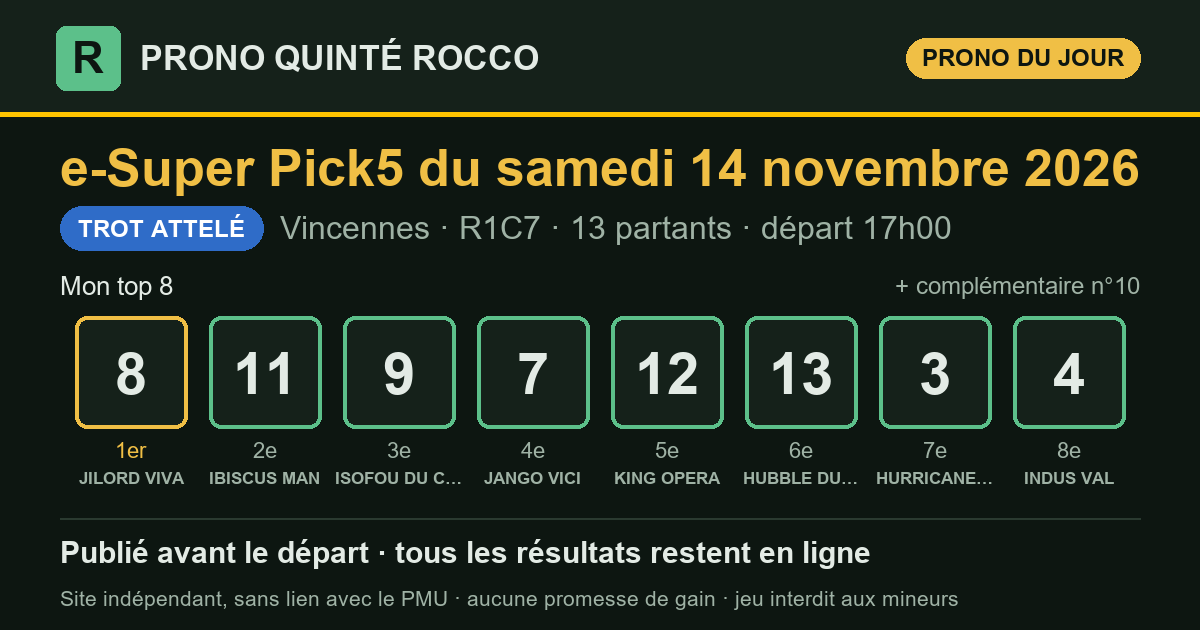
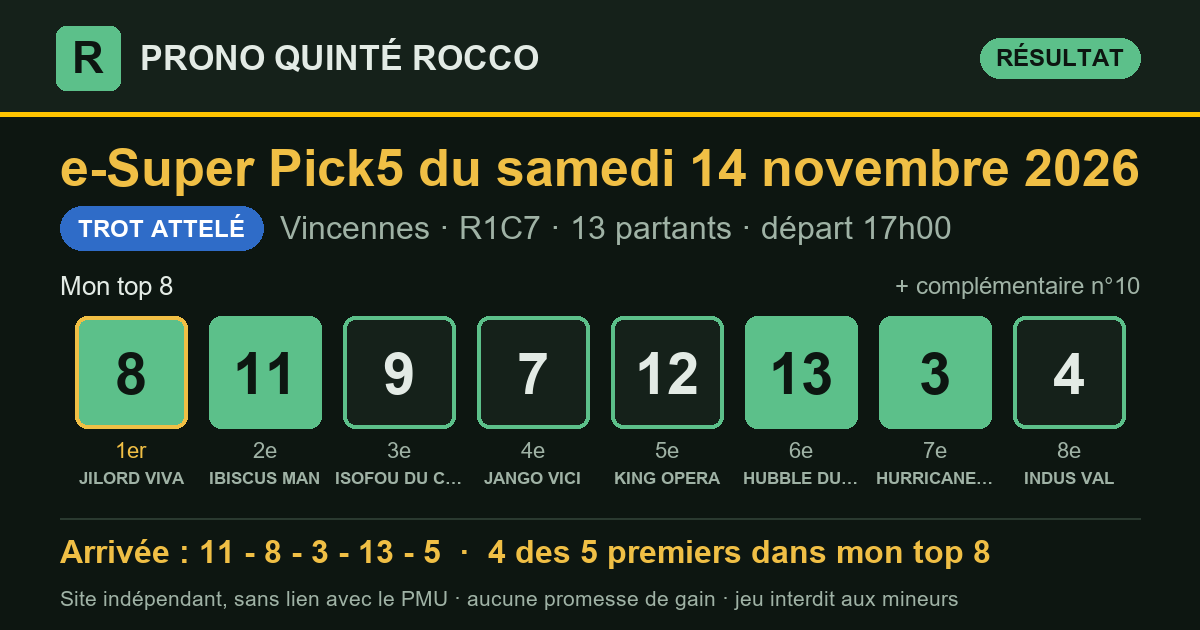
Résultat du e-Super Pick5 2026-11-14 Vincennes R1C7 — publié le 14/11/2026 17:22 (heure de Paris)

diff --git a/superpick5-partants.html b/superpick5-partants.html
@@ -3,7 +3,7 @@
 <head>
 <meta charset="utf-8">
 <meta name="viewport" content="width=device-width, initial-scale=1, viewport-fit=cover">
-<title>Partants du Super Pick 5 du samedi 14 novembre 2026 : Prix du Languedoc — Prono Quinté Rocco</title>
+<title>Partants du Super Pick 5 du dimanche 15 novembre 2026 : Prix Rmc - Prix Count Schomberg — Prono Quinté Rocco</title>
 <meta name="description" content="Les partants du prochain Super Pick 5 (e-Super Pick5 ; programme officiel du PMU), avec le rang de chaque cheval dans mon prono et les liens vers les pronostics de la presse.">
 <link rel="canonical" href="https://prono-quinte-rocco.fr/superpick5-partants.html">
 <link rel="stylesheet" href="style.css?v=16feb868">
@@ -13,7 +13,7 @@
 <meta property="og:site_name" content="Prono Quinté Rocco">
 <meta property="og:locale" content="fr_FR">
 <meta property="og:type" content="website">
-<meta property="og:title" content="Partants du Super Pick 5 du samedi 14 novembre 2026 : Prix du Languedoc — Prono Quinté Rocco">
+<meta property="og:title" content="Partants du Super Pick 5 du dimanche 15 novembre 2026 : Prix Rmc - Prix Count Schomberg — Prono Quinté Rocco">
 <meta property="og:description" content="Les partants du prochain Super Pick 5 (e-Super Pick5 ; programme officiel du PMU), avec le rang de chaque cheval dans mon prono et les liens vers les pronostics de la presse.">
 <meta property="og:url" content="https://prono-quinte-rocco.fr/superpick5-partants.html">
 <meta name="twitter:card" content="summary">
@@ -30,85 +30,100 @@
   <p class="surtitre">Programme officiel du PMU</p>
   <h1>Les partants du prochain <span class="nobr">e-Super Pick5</span></h1>
   <div class="fiche-course">
-    <p class="fiche-date">Samedi 14 novembre 2026</p>
-    <div class="fiche-rc"><span class="pastille" title="Réunion 1">R1</span><span class="pastille" title="Course 7">C7</span><span class="fiche-nom">Prix du Languedoc</span></div>
-    <p class="meta"><span class="type t-attele">Trot attelé</span>Vincennes · 2 850 m · 13 partants</p>
-    <p class="fiche-depart">Départ <b>17:00</b> <span>heure de Paris</span></p>
+    <p class="fiche-date">Dimanche 15 novembre 2026</p>
+    <div class="fiche-rc"><span class="pastille" title="Réunion 1">R1</span><span class="pastille" title="Course 8">C8</span><span class="fiche-nom">Prix Rmc - Prix Count Schomberg</span></div>
+    <p class="meta"><span class="type t-obstacle">Obstacle</span>Auteuil · 4 300 m · 16 partants</p>
+    <p class="fiche-depart">Départ <b>16:35</b> <span>heure de Paris</span></p>
   </div>
   <p class="surtitre">Les pronostics ailleurs sur le web</p>
-  <div class="liens"><a class="lien-ext" href="https://www.turfoo.fr/programmes-courses/261114/reunion1-vincennes/course7-prix-du-languedoc/pronostics-presse/" rel="noopener" target="_blank"><b>Les pronostics de la presse →</b><span>sur Turfoo (site extérieur)</span></a><a class="lien-ext" href="https://www.geny.com/programme/2026-11-14" rel="noopener" target="_blank"><b>Partants et pronostics →</b><span>programme du jour sur Geny (site extérieur)</span></a></div>
+  <div class="liens"><a class="lien-ext" href="https://www.turfoo.fr/programmes-courses/261115/reunion1-auteuil/course8-prix-rmc-prix-count-schomberg/pronostics-presse/" rel="noopener" target="_blank"><b>Les pronostics de la presse →</b><span>sur Turfoo (site extérieur)</span></a><a class="lien-ext" href="https://www.geny.com/programme/2026-11-15" rel="noopener" target="_blank"><b>Partants et pronostics →</b><span>programme du jour sur Geny (site extérieur)</span></a></div>
   <div class="liste-boite"><table class="liste-partants">
     <thead><tr><th>N°</th><th>Cheval</th><th class="cote"><span class="long">Cote du matin</span><span class="court">Cote</span></th>
     <th class="ia"><span class="long">Mon prono</span><span class="court">Prono</span></th></tr></thead>
     <tbody><tr>
   <td><span class="tapis petit">1</span></td>
-  <td><span class="cheval">DIVA DEL RONCO</span><span class="sous">V. CIOTOLA · Vitale CIOTOLA</span></td>
-  <td class="cote num">91,0</td>
+  <td><span class="cheval">LOQUAS</span><span class="sous">K.NABET · Y.FOUIN (S)</span></td>
+  <td class="cote num">—</td>
   <td class="ia">—</td>
 </tr><tr>
   <td><span class="tapis petit">2</span></td>
-  <td><span class="cheval">HANNAH</span><span class="sous">M. GYRE · Julien RAFFESTIN</span></td>
-  <td class="cote num">160,0</td>
+  <td><span class="cheval">GARDONS LE SOURIRE</span><span class="sous">T.CHEVILLARD · GAB.LEENDERS (S)</span></td>
+  <td class="cote num">—</td>
   <td class="ia">—</td>
 </tr><tr>
   <td><span class="tapis petit">3</span></td>
-  <td><span class="cheval">HURRICANE CARTER</span><span class="sous">A. ABRIVARD · Mme S. RAIMOND</span></td>
-  <td class="cote num">36,0</td>
-  <td class="ia"><span class="etat place">7<sup>e</sup></span></td>
+  <td><span class="cheval">JAGUAR DU BERLAIS</span><span class="sous">THO .JOURNIAC · E.GRALL (S)</span></td>
+  <td class="cote num">—</td>
+  <td class="ia">—</td>
 </tr><tr>
   <td><span class="tapis petit">4</span></td>
-  <td><span class="cheval">INDUS VAL</span><span class="sous">CH. MARTENS · J.M. CHAINEUX</span></td>
-  <td class="cote num">24,0</td>
-  <td class="ia"><span class="etat place">8<sup>e</sup></span></td>
+  <td><span class="cheval">CROWN DU BERLAIS</span><span class="sous">L.ZULIANI · LAGENESTE &amp; MACAIRE (S)</span></td>
+  <td class="cote num">—</td>
+  <td class="ia">—</td>
 </tr><tr>
   <td><span class="tapis petit">5</span></td>
-  <td><span class="cheval">INVICTUS MADIBA</span><span class="sous">A. COLLETTE · B. MICHARDIERE</span></td>
-  <td class="cote num">46,0</td>
+  <td><span class="cheval">DO IT AGAIN</span><span class="sous">J.REVELEY · N. GEORGE &amp; A. ZETTERHOLM</span></td>
+  <td class="cote num">—</td>
   <td class="ia">—</td>
 </tr><tr>
   <td><span class="tapis petit">6</span></td>
-  <td><span class="cheval">HORATIUS D&#x27;ELA</span><span class="sous">M. ABRIVARD · M. SASSIER</span></td>
-  <td class="cote num">30,0</td>
+  <td><span class="cheval">MOTY MARC</span><span class="sous">B.LE CLERC · F.BELLEMERE</span></td>
+  <td class="cote num">—</td>
   <td class="ia">—</td>
 </tr><tr>
   <td><span class="tapis petit">7</span></td>
-  <td><span class="cheval">JANGO VICI</span><span class="sous">B. ROCHARD · A. RIPOLL RIGO</span></td>
-  <td class="cote num">9,4</td>
-  <td class="ia"><span class="etat place">4<sup>e</sup></span></td>
+  <td><span class="cheval">SAINT ROBIN</span><span class="sous">G.FAIVRE-PICON · GAB.LEENDERS (S)</span></td>
+  <td class="cote num">—</td>
+  <td class="ia">—</td>
 </tr><tr>
   <td><span class="tapis petit">8</span></td>
-  <td><span class="cheval">JILORD VIVA</span><span class="sous">E. RAFFIN · Julien RAFFESTIN</span></td>
-  <td class="cote num">5,8</td>
-  <td class="ia"><span class="etat place">1<sup>er</sup></span></td>
+  <td><span class="cheval">JOST</span><span class="sous">L.PHILIPPERON · M.SEROR (S)</span></td>
+  <td class="cote num">—</td>
+  <td class="ia">—</td>
 </tr><tr>
   <td><span class="tapis petit">9</span></td>
-  <td><span class="cheval">ISOFOU DU CHENE</span><span class="sous">P.PH. PLOQUIN · J. LE MER</span></td>
-  <td class="cote num">4,2</td>
-  <td class="ia"><span class="etat place">3<sup>e</sup></span></td>
+  <td><span class="cheval">LEMNOS</span><span class="sous">A.ZULIANI · E.ANDIGNE D&#x27;</span></td>
+  <td class="cote num">—</td>
+  <td class="ia">—</td>
 </tr><tr>
   <td><span class="tapis petit">10</span></td>
-  <td><span class="cheval">HARLEM DE BUCY</span><span class="sous">F. LAGADEUC · D. ALEXANDRE</span></td>
-  <td class="cote num">33,0</td>
-  <td class="ia"><span class="etat place">compl.</span></td>
+  <td><span class="cheval">NEVER RISK</span><span class="sous">N.FERREIRA · H.MERIENNE (S)</span></td>
+  <td class="cote num">—</td>
+  <td class="ia">—</td>
 </tr><tr>
   <td><span class="tapis petit">11</span></td>
-  <td><span class="cheval">IBISCUS MAN</span><span class="sous">M. MOTTIER · R.CH. LARUE</span></td>
-  <td class="cote num">3,9</td>
-  <td class="ia"><span class="etat place">2<sup>e</sup></span></td>
+  <td><span class="cheval">ROBIN HILL</span><span class="sous">T.BEAURAIN · L.CARBERRY (S)</span></td>
+  <td class="cote num">—</td>
+  <td class="ia">—</td>
 </tr><tr>
   <td><span class="tapis petit">12</span></td>
-  <td><span class="cheval">KING OPERA</span><span class="sous">W. BIGEON · W. BIGEON</span></td>
-  <td class="cote num">10,0</td>
-  <td class="ia"><span class="etat place">5<sup>e</sup></span></td>
+  <td><span class="cheval">LECA DE THAIX</span><span class="sous">M.CHAILLOLEAU · E.ANDIGNE D&#x27;</span></td>
+  <td class="cote num">—</td>
+  <td class="ia">—</td>
 </tr><tr>
   <td><span class="tapis petit">13</span></td>
-  <td><span class="cheval">HUBBLE DU VIVIER</span><span class="sous">J.M. BAZIRE · N. BAZIRE</span></td>
-  <td class="cote num">7,4</td>
-  <td class="ia"><span class="etat place">6<sup>e</sup></span></td>
+  <td><span class="cheval">LIPRIKA D&#x27;ANJOU</span><span class="sous">F.GILES · H.MERIENNE (S)</span></td>
+  <td class="cote num">—</td>
+  <td class="ia">—</td>
+</tr><tr>
+  <td><span class="tapis petit">14</span></td>
+  <td><span class="cheval">SOLIGO</span><span class="sous">A.CHESNEAU · Y.FOUIN (S)</span></td>
+  <td class="cote num">—</td>
+  <td class="ia">—</td>
+</tr><tr>
+  <td><span class="tapis petit">15</span></td>
+  <td><span class="cheval">BELIZE</span><span class="sous">G.MEUNIER · D.BRESSOU</span></td>
+  <td class="cote num">—</td>
+  <td class="ia">—</td>
+</tr><tr>
+  <td><span class="tapis petit">16</span></td>
+  <td><span class="cheval">ESASTAR</span><span class="sous">M.BEHOCARAY · D.BRESSOU</span></td>
+  <td class="cote num">—</td>
+  <td class="ia">—</td>
 </tr></tbody>
   </table></div>
-  <p class="meta">La colonne « Mon prono » donne le rang de chaque cheval dans mon top 8, tel qu&#x27;il est publié sur ce site. Sous chaque cheval : driver · entraîneur. Partants et cotes : programme
-  officiel du PMU, lu le 14/11 à 15:37 (heure de Paris). NP = non-partant.</p>
+  <p class="meta">Mon prono de cette course sera publié le matin de la course, avant le départ. Sous chaque cheval : jockey · entraîneur. Partants et cotes : programme
+  officiel du PMU, lu le 14/11 à 17:22 (heure de Paris). NP = non-partant.</p>
 </section>
 </main>
 <footer class="pied">

diff --git a/superpick5.html b/superpick5.html
@@ -16,7 +16,7 @@
 <meta property="og:title" content="Pronostic Super Pick 5 du samedi 14 novembre 2026 : Prix du Languedoc — Prono Quinté Rocco">
 <meta property="og:description" content="Pronostic Super Pick 5 (e-Super Pick5) du jour : mon top 8, publié avant le départ, puis tous les résultats et le rendement réel.">
 <meta property="og:url" content="https://prono-quinte-rocco.fr/superpick5.html">
-<meta property="og:image" content="https://prono-quinte-rocco.fr/partage/sp5-2026-11-14.png?v=6e0f8bf5">
+<meta property="og:image" content="https://prono-quinte-rocco.fr/partage/sp5-2026-11-14.png?v=a945d957">
 <meta property="og:image:type" content="image/png">
 <meta property="og:image:width" content="1200">
 <meta property="og:image:height" content="630">
@@ -32,7 +32,7 @@
 <div class="jeux j-sp5" role="navigation" aria-label="Choix du jeu"><a class="jeu jeu-quinte" href="index.html">Quinté+</a><a class="jeu jeu-sp5 actif" href="superpick5.html" aria-current="true">e-Super Pick5<small>entre 17 h et 19 h</small></a></div>
 <main>
 <section class="une" aria-labelledby="t-jour">
-  <p class="surtitre">e-Super Pick5 du jour</p>
+  <p class="surtitre">Dernier e-Super Pick5</p>
   <h1 id="t-jour">Le prono du <span class="nobr">e-Super Pick5</span>, résultats compris</h1>
   <p class="chapo">Le e-Super Pick5 est le nouveau pari du PMU : chaque jour, une course
   dont il faut trouver les cinq premiers. Je l'étudie comme le Quinté+, avec le logiciel
@@ -44,10 +44,13 @@
   <p class="meta">Prix du Languedoc · Vincennes · <strong>R1C7</strong> · 13 partants · <span class="lisib">lisibilité <span class="note" aria-label="note 2 sur 5" title="lisibilité 2/5 : course ouverte"><i class="on"></i><i class="on"></i><i class=""></i><i class=""></i><i class=""></i></span> 2/5</span></p>
   <div class="zone-prono">
     <h3 class="zone-titre">Mon top 8</h3>
-    <ol class="partants" aria-label="Mon top 8"><li><span class="rang">1<sup>er</sup></span><span class="tapis ">8</span><span class="nom">JILORD VIVA</span></li><li><span class="rang">2<sup>e</sup></span><span class="tapis ">11</span><span class="nom">IBISCUS MAN</span></li><li><span class="rang">3<sup>e</sup></span><span class="tapis ">9</span><span class="nom">ISOFOU DU CHENE</span></li><li><span class="rang">4<sup>e</sup></span><span class="tapis ">7</span><span class="nom">JANGO VICI</span></li><li><span class="rang">5<sup>e</sup></span><span class="tapis ">12</span><span class="nom">KING OPERA</span></li><li><span class="rang">6<sup>e</sup></span><span class="tapis ">13</span><span class="nom">HUBBLE DU VIVIER</span></li><li><span class="rang">7<sup>e</sup></span><span class="tapis ">3</span><span class="nom">HURRICANE CARTER</span></li><li><span class="rang">8<sup>e</sup></span><span class="tapis ">4</span><span class="nom">INDUS VAL</span></li><li><span class="rang">compl.</span><span class="tapis creux">10</span><span class="nom">HARLEM DE BUCY</span></li></ol>
+    <ol class="partants" aria-label="Mon top 8"><li><span class="rang">1<sup>er</sup></span><span class="tapis plein">8</span><span class="nom">JILORD VIVA</span></li><li><span class="rang">2<sup>e</sup></span><span class="tapis plein">11</span><span class="nom">IBISCUS MAN</span></li><li><span class="rang">3<sup>e</sup></span><span class="tapis ">9</span><span class="nom">ISOFOU DU CHENE</span></li><li><span class="rang">4<sup>e</sup></span><span class="tapis ">7</span><span class="nom">JANGO VICI</span></li><li><span class="rang">5<sup>e</sup></span><span class="tapis ">12</span><span class="nom">KING OPERA</span></li><li><span class="rang">6<sup>e</sup></span><span class="tapis plein">13</span><span class="nom">HUBBLE DU VIVIER</span></li><li><span class="rang">7<sup>e</sup></span><span class="tapis plein">3</span><span class="nom">HURRICANE CARTER</span></li><li><span class="rang">8<sup>e</sup></span><span class="tapis ">4</span><span class="nom">INDUS VAL</span></li><li><span class="rang">compl.</span><span class="tapis creux">10</span><span class="nom">HARLEM DE BUCY</span></li></ol>
     <div class="pied-carte"><span>Analysé le 14/11 à 10:06 · en ligne le 14/11 à 10:07 · départ à 17:00 (heure de Paris)</span><span><a href="superpick5/2026-11-14.html">Détail de la course</a></span></div>
   </div>
-  <div class="zone-arrivee attente"><p>L'arrivée officielle s'affichera ici après la course.</p></div>
+  <div class="zone-arrivee">
+    <div class="zone-tete"><h3 class="zone-titre">Arrivée officielle</h3><span class="etat place">4 des 5 premiers dans mon top 8</span><span class="etat place">mon 1er (n°8) : placé</span></div>
+    <ol class="partants" aria-label="Arrivée officielle"><li><span class="rang">1<sup>er</sup></span><span class="tapis plein">11</span><span class="nom">IBISCUS MAN</span></li><li><span class="rang">2<sup>e</sup></span><span class="tapis plein">8</span><span class="nom">JILORD VIVA</span></li><li><span class="rang">3<sup>e</sup></span><span class="tapis plein">3</span><span class="nom">HURRICANE CARTER</span></li><li><span class="rang">4<sup>e</sup></span><span class="tapis plein">13</span><span class="nom">HUBBLE DU VIVIER</span></li><li><span class="rang">5<sup>e</sup></span><span class="tapis hors">5</span><span class="nom">INVICTUS MADIBA</span></li></ol>
+  </div>
 </article>
 </section>
 <section class="suivre" aria-label="Suivre et soutenir">
@@ -77,9 +80,9 @@
 </section>
 <section class="bilan" aria-labelledby="t-bilan">
   <h2 id="t-bilan">Mon bilan depuis le 5 novembre 2026</h2>
-  <div class="tableau chiffres"><div class="case"><span class="gros ">83 %</span><span class="lib">des arrivants trouvés dans mon top 8</span><span class="ref">un top 8 tiré au hasard : 53 %</span></div><div class="case"><span class="gros ">71 %</span><span class="lib">des gagnants présents dans mon top 8</span><span class="ref"></span></div><div class="case"><span class="gros ">57 %</span><span class="lib">mon 1er placé</span><span class="ref">sur 7 Super Pick5</span></div><div class="case"><span class="gros perte">0,90 €</span><span class="lib">rendus pour 1 € joué placé sur mon 1er</span><span class="ref">rapports officiels PMU</span></div><div class="case"><span class="gros perte">0,92 €</span><span class="lib">rendus pour 1 € joué en e-Super Pick5 combiné sur mon top 8</span><span class="ref">56 combinaisons, rapports PMU.fr, sur 7 Super Pick5</span></div></div>
+  <div class="tableau chiffres"><div class="case"><span class="gros ">82 %</span><span class="lib">des arrivants trouvés dans mon top 8</span><span class="ref">un top 8 tiré au hasard : 54 %</span></div><div class="case"><span class="gros ">75 %</span><span class="lib">des gagnants présents dans mon top 8</span><span class="ref"></span></div><div class="case"><span class="gros ">62 %</span><span class="lib">mon 1er placé</span><span class="ref">sur 8 Super Pick5</span></div><div class="case"><span class="gros gain">1,02 €</span><span class="lib">rendus pour 1 € joué placé sur mon 1er</span><span class="ref">rapports officiels PMU</span></div><div class="case"><span class="gros perte">0,80 €</span><span class="lib">rendus pour 1 € joué en e-Super Pick5 combiné sur mon top 8</span><span class="ref">56 combinaisons, rapports PMU.fr, sur 8 Super Pick5</span></div></div>
   <p class="avertissement">Moins de 1 € rendu pour 1 € joué : suivre mon prono à la lettre fait <strong>perdre de l'argent</strong> sur cette période. Il sert à analyser une course, pas à promettre un gain.</p>
-  <p class="avertissement">Sur 7 courses seulement : beaucoup trop peu pour en tirer quoi que ce soit.</p>
+  <p class="avertissement">Sur 8 courses seulement : beaucoup trop peu pour en tirer quoi que ce soit.</p>
 </section>
 <section class="texte en-bref" aria-labelledby="t-bref">
   <h2 id="t-bref">Le e-Super Pick5 en bref</h2>

diff --git a/superpick5/2026-11-14.html b/superpick5/2026-11-14.html
@@ -16,7 +16,7 @@
 <meta property="og:title" content="Pronostic Super Pick 5 du samedi 14 novembre 2026 : Prix du Languedoc à Vincennes — Prono Quinté Rocco">
 <meta property="og:description" content="Prono Super Pick 5 (e-Super Pick5) du samedi 14 novembre 2026 (Prix du Languedoc, Vincennes) : mon top 8, l&#x27;arrivée officielle et les rapports PMU.fr.">
 <meta property="og:url" content="https://prono-quinte-rocco.fr/superpick5/2026-11-14.html">
-<meta property="og:image" content="https://prono-quinte-rocco.fr/partage/sp5-2026-11-14.png?v=6e0f8bf5">
+<meta property="og:image" content="https://prono-quinte-rocco.fr/partage/sp5-2026-11-14.png?v=a945d957">
 <meta property="og:image:type" content="image/png">
 <meta property="og:image:width" content="1200">
 <meta property="og:image:height" content="630">
@@ -36,15 +36,25 @@
   <h1>Pronostic <span class="nobr">e-Super Pick5</span> du samedi 14 novembre 2026</h1>
   <p class="chapo">Prix du Languedoc · Vincennes · R1C7 · Attelé · 13 partants</p>
   <article class="carte-course">
-  <div class="tete"><h2>Mon prono</h2><span class="type t-attele">Trot attelé</span></div>
+  <div class="tete"><h2>Mon prono et l&#x27;arrivée officielle</h2><span class="type t-attele">Trot attelé</span></div>
   <p class="meta">Prix du Languedoc · Vincennes · <strong>R1C7</strong> · 13 partants · <span class="lisib">lisibilité <span class="note" aria-label="note 2 sur 5" title="lisibilité 2/5 : course ouverte"><i class="on"></i><i class="on"></i><i class=""></i><i class=""></i><i class=""></i></span> 2/5</span></p>
   <div class="zone-prono">
     <h3 class="zone-titre">Mon top 8</h3>
-    <ol class="partants" aria-label="Mon top 8"><li><span class="rang">1<sup>er</sup></span><span class="tapis ">8</span><span class="nom">JILORD VIVA</span></li><li><span class="rang">2<sup>e</sup></span><span class="tapis ">11</span><span class="nom">IBISCUS MAN</span></li><li><span class="rang">3<sup>e</sup></span><span class="tapis ">9</span><span class="nom">ISOFOU DU CHENE</span></li><li><span class="rang">4<sup>e</sup></span><span class="tapis ">7</span><span class="nom">JANGO VICI</span></li><li><span class="rang">5<sup>e</sup></span><span class="tapis ">12</span><span class="nom">KING OPERA</span></li><li><span class="rang">6<sup>e</sup></span><span class="tapis ">13</span><span class="nom">HUBBLE DU VIVIER</span></li><li><span class="rang">7<sup>e</sup></span><span class="tapis ">3</span><span class="nom">HURRICANE CARTER</span></li><li><span class="rang">8<sup>e</sup></span><span class="tapis ">4</span><span class="nom">INDUS VAL</span></li><li><span class="rang">compl.</span><span class="tapis creux">10</span><span class="nom">HARLEM DE BUCY</span></li></ol>
+    <ol class="partants" aria-label="Mon top 8"><li><span class="rang">1<sup>er</sup></span><span class="tapis plein">8</span><span class="nom">JILORD VIVA</span></li><li><span class="rang">2<sup>e</sup></span><span class="tapis plein">11</span><span class="nom">IBISCUS MAN</span></li><li><span class="rang">3<sup>e</sup></span><span class="tapis ">9</span><span class="nom">ISOFOU DU CHENE</span></li><li><span class="rang">4<sup>e</sup></span><span class="tapis ">7</span><span class="nom">JANGO VICI</span></li><li><span class="rang">5<sup>e</sup></span><span class="tapis ">12</span><span class="nom">KING OPERA</span></li><li><span class="rang">6<sup>e</sup></span><span class="tapis plein">13</span><span class="nom">HUBBLE DU VIVIER</span></li><li><span class="rang">7<sup>e</sup></span><span class="tapis plein">3</span><span class="nom">HURRICANE CARTER</span></li><li><span class="rang">8<sup>e</sup></span><span class="tapis ">4</span><span class="nom">INDUS VAL</span></li><li><span class="rang">compl.</span><span class="tapis creux">10</span><span class="nom">HARLEM DE BUCY</span></li></ol>
     <div class="pied-carte"><span>Analysé le 14/11 à 10:06 · en ligne le 14/11 à 10:07 · départ à 17:00 (heure de Paris)</span><span></span></div>
   </div>
-  <div class="zone-arrivee attente"><p>L'arrivée officielle s'affichera ici après la course.</p></div>
+  <div class="zone-arrivee">
+    <div class="zone-tete"><h3 class="zone-titre">Arrivée officielle</h3><span class="etat place">4 des 5 premiers dans mon top 8</span><span class="etat place">mon 1er (n°8) : placé</span></div>
+    <ol class="partants" aria-label="Arrivée officielle"><li><span class="rang">1<sup>er</sup></span><span class="tapis plein">11</span><span class="nom">IBISCUS MAN</span></li><li><span class="rang">2<sup>e</sup></span><span class="tapis plein">8</span><span class="nom">JILORD VIVA</span></li><li><span class="rang">3<sup>e</sup></span><span class="tapis plein">3</span><span class="nom">HURRICANE CARTER</span></li><li><span class="rang">4<sup>e</sup></span><span class="tapis plein">13</span><span class="nom">HUBBLE DU VIVIER</span></li><li><span class="rang">5<sup>e</sup></span><span class="tapis hors">5</span><span class="nom">INVICTUS MADIBA</span></li></ol>
+  </div>
 </article>
+<section class="carte-course rapports" aria-labelledby="t-rap">
+  <div class="tete"><h2 id="t-rap">Les rapports</h2></div>
+  <div class="deux">
+    <div><h3>Ce qu'aurait rendu mon prono</h3><dl class="kv"><dt>1 € placé sur mon 1er (n°8)</dt><dd class="gain">1,90 €</dd><dt>1 € gagnant sur mon 1er</dt><dd class="perte">0,00 €</dd><dt>e-Super Pick5 combiné sur mon top 8 (mise 112 €)</dt><dd class="perte">0,00 €</dd><dd class="dont">aucune combinaison gagnante</dd></dl></div>
+    <div><h3>Rapports officiels</h3><dl class="kv"><dt>e-Super Pick5 Ordre (2 €)</dt><dd>56 836,80 €</dd><dt>e-Super Pick5 Super Désordre (2 €)</dt><dd>637,60 €</dd><dt>e-Super Pick5 Désordre (2 €)</dt><dd>259,60 €</dd></dl></div>
+  </div>
+</section>
 </section>
 </main>
 <footer class="pied">

diff --git a/superpick5-resultats.html b/superpick5-resultats.html
@@ -52,12 +52,12 @@
     <th colspan="4" class="res g-res">Le résultat officiel</th></tr>
     <tr><th>Date</th><th>Course</th><th>Top 8</th><th class="c-lis">Lisibilité</th><th class="res c-arr">Arrivée</th>
     <th class="res">Trouvés</th><th class="res">Mon 1er</th><th class="res mont">Super Pick5 top 8<br><small>(mise 112 €)</small></th></tr></thead>
-    <tbody><tr class="attente">
+    <tbody><tr>
   <td class="c-date"><a href="superpick5/2026-11-14.html">14/11</a></td>
   <td class="c-course">Vincennes<br><span class="meta">R1C7</span><span class="type t-attele petit">Attelé</span></td>
-  <td class="c-top8" data-label="Mon top 8"><div class="rangee"><span class="tapis petit">8</span><span class="tapis petit">11</span><span class="tapis petit">9</span><span class="tapis petit">7</span><span class="tapis petit">12</span><span class="tapis petit">13</span><span class="tapis petit">3</span><span class="tapis petit">4</span></div></td>
+  <td class="c-top8" data-label="Mon top 8"><div class="rangee"><span class="tapis plein petit">8</span><span class="tapis plein petit">11</span><span class="tapis petit">9</span><span class="tapis petit">7</span><span class="tapis petit">12</span><span class="tapis plein petit">13</span><span class="tapis plein petit">3</span><span class="tapis petit">4</span></div></td>
   <td class="c-lis" data-label="Lisibilité"><span class="note" aria-label="note 2 sur 5" title="lisibilité 2/5 : course ouverte"><i class="on"></i><i class="on"></i><i class=""></i><i class=""></i><i class=""></i></span> 2/5</td>
-  <td class="res c-arr" data-label="Arrivée"><span class="etat attente">en attente</span></td><td class="res num c-trouves" data-label="Trouvés">—</td><td class="res c-premier" data-label="Mon 1er"><span class="etat attente">—</span></td><td class="res mont c-mont" data-label="Super Pick5 top 8 (mise 112 €)">—</td>
+  <td class="res c-arr" data-label="Arrivée"><div class="rangee"><span class="tapis plein petit" title="1er">11</span><span class="tapis plein petit" title="2e">8</span><span class="tapis plein petit" title="3e">3</span><span class="tapis plein petit" title="4e">13</span><span class="tapis hors petit" title="5e">5</span></div></td><td class="res num c-trouves" data-label="Trouvés"><span class="etat place" title="4 des 5 premiers sont dans mon top 8">4/5</span></td><td class="res c-premier" data-label="Mon 1er"><span class="etat place">placé</span></td><td class="res mont c-mont perte" data-label="Super Pick5 top 8 (mise 112 €)" title="perte nette : 112,00 €">0,00 €</td>
 </tr><tr>
   <td class="c-date"><a href="superpick5/2026-11-13.html">13/11</a></td>
   <td class="c-course">Vincennes<br><span class="meta">R1C1</span><span class="type t-attele petit">Attelé</span></td>
@@ -115,9 +115,9 @@
 </section>
 <section class="bilan" aria-labelledby="t-bilan">
   <h2 id="t-bilan">Mon bilan depuis le 5 novembre 2026</h2>
-  <div class="tableau chiffres"><div class="case"><span class="gros ">83 %</span><span class="lib">des arrivants trouvés dans mon top 8</span><span class="ref">un top 8 tiré au hasard : 53 %</span></div><div class="case"><span class="gros ">71 %</span><span class="lib">des gagnants présents dans mon top 8</span><span class="ref"></span></div><div class="case"><span class="gros ">57 %</span><span class="lib">mon 1er placé</span><span class="ref">sur 7 Super Pick5</span></div><div class="case"><span class="gros perte">0,90 €</span><span class="lib">rendus pour 1 € joué placé sur mon 1er</span><span class="ref">rapports officiels PMU</span></div><div class="case"><span class="gros perte">0,92 €</span><span class="lib">rendus pour 1 € joué en e-Super Pick5 combiné sur mon top 8</span><span class="ref">56 combinaisons, rapports PMU.fr, sur 7 Super Pick5</span></div></div>
+  <div class="tableau chiffres"><div class="case"><span class="gros ">82 %</span><span class="lib">des arrivants trouvés dans mon top 8</span><span class="ref">un top 8 tiré au hasard : 54 %</span></div><div class="case"><span class="gros ">75 %</span><span class="lib">des gagnants présents dans mon top 8</span><span class="ref"></span></div><div class="case"><span class="gros ">62 %</span><span class="lib">mon 1er placé</span><span class="ref">sur 8 Super Pick5</span></div><div class="case"><span class="gros gain">1,02 €</span><span class="lib">rendus pour 1 € joué placé sur mon 1er</span><span class="ref">rapports officiels PMU</span></div><div class="case"><span class="gros perte">0,80 €</span><span class="lib">rendus pour 1 € joué en e-Super Pick5 combiné sur mon top 8</span><span class="ref">56 combinaisons, rapports PMU.fr, sur 8 Super Pick5</span></div></div>
   <p class="avertissement">Moins de 1 € rendu pour 1 € joué : suivre mon prono à la lettre fait <strong>perdre de l'argent</strong> sur cette période. Il sert à analyser une course, pas à promettre un gain.</p>
-  <p class="avertissement">Sur 7 courses seulement : beaucoup trop peu pour en tirer quoi que ce soit.</p>
+  <p class="avertissement">Sur 8 courses seulement : beaucoup trop peu pour en tirer quoi que ce soit.</p>
 </section>
 </main>
 <footer class="pied">

diff --git a/index.html b/index.html
@@ -16,7 +16,7 @@
 <meta property="og:title" content="Pronostics Quinté+ et Super Pick 5 du samedi 14 novembre 2026 — Prono Quinté Rocco">
 <meta property="og:description" content="Pronostics Quinté+ (Prix Atlantic) et Super Pick 5 (Prix du Languedoc) du jour : mes top 8, publiés avant le départ, puis tous les résultats et le rendement réel.">
 <meta property="og:url" content="https://prono-quinte-rocco.fr/">
-<meta property="og:image" content="https://prono-quinte-rocco.fr/partage/jour-2026-11-14.png?v=0c82475a">
+<meta property="og:image" content="https://prono-quinte-rocco.fr/partage/jour-2026-11-14.png?v=9d6f9bac">
 <meta property="og:image:type" content="image/png">
 <meta property="og:image:width" content="1200">
 <meta property="og:image:height" content="630">

diff --git a/partants.html b/partants.html
@@ -118,7 +118,7 @@
 </tr></tbody>
   </table></div>
   <p class="meta">Mon prono de cette course sera publié le matin de la course, avant le départ. Sous chaque cheval : jockey · entraîneur. Partants et cotes : programme
-  officiel du PMU, lu le 14/11 à 15:37 (heure de Paris). NP = non-partant.</p>
+  officiel du PMU, lu le 14/11 à 17:22 (heure de Paris). NP = non-partant.</p>
 </section>
 </main>
 <footer class="pied">
